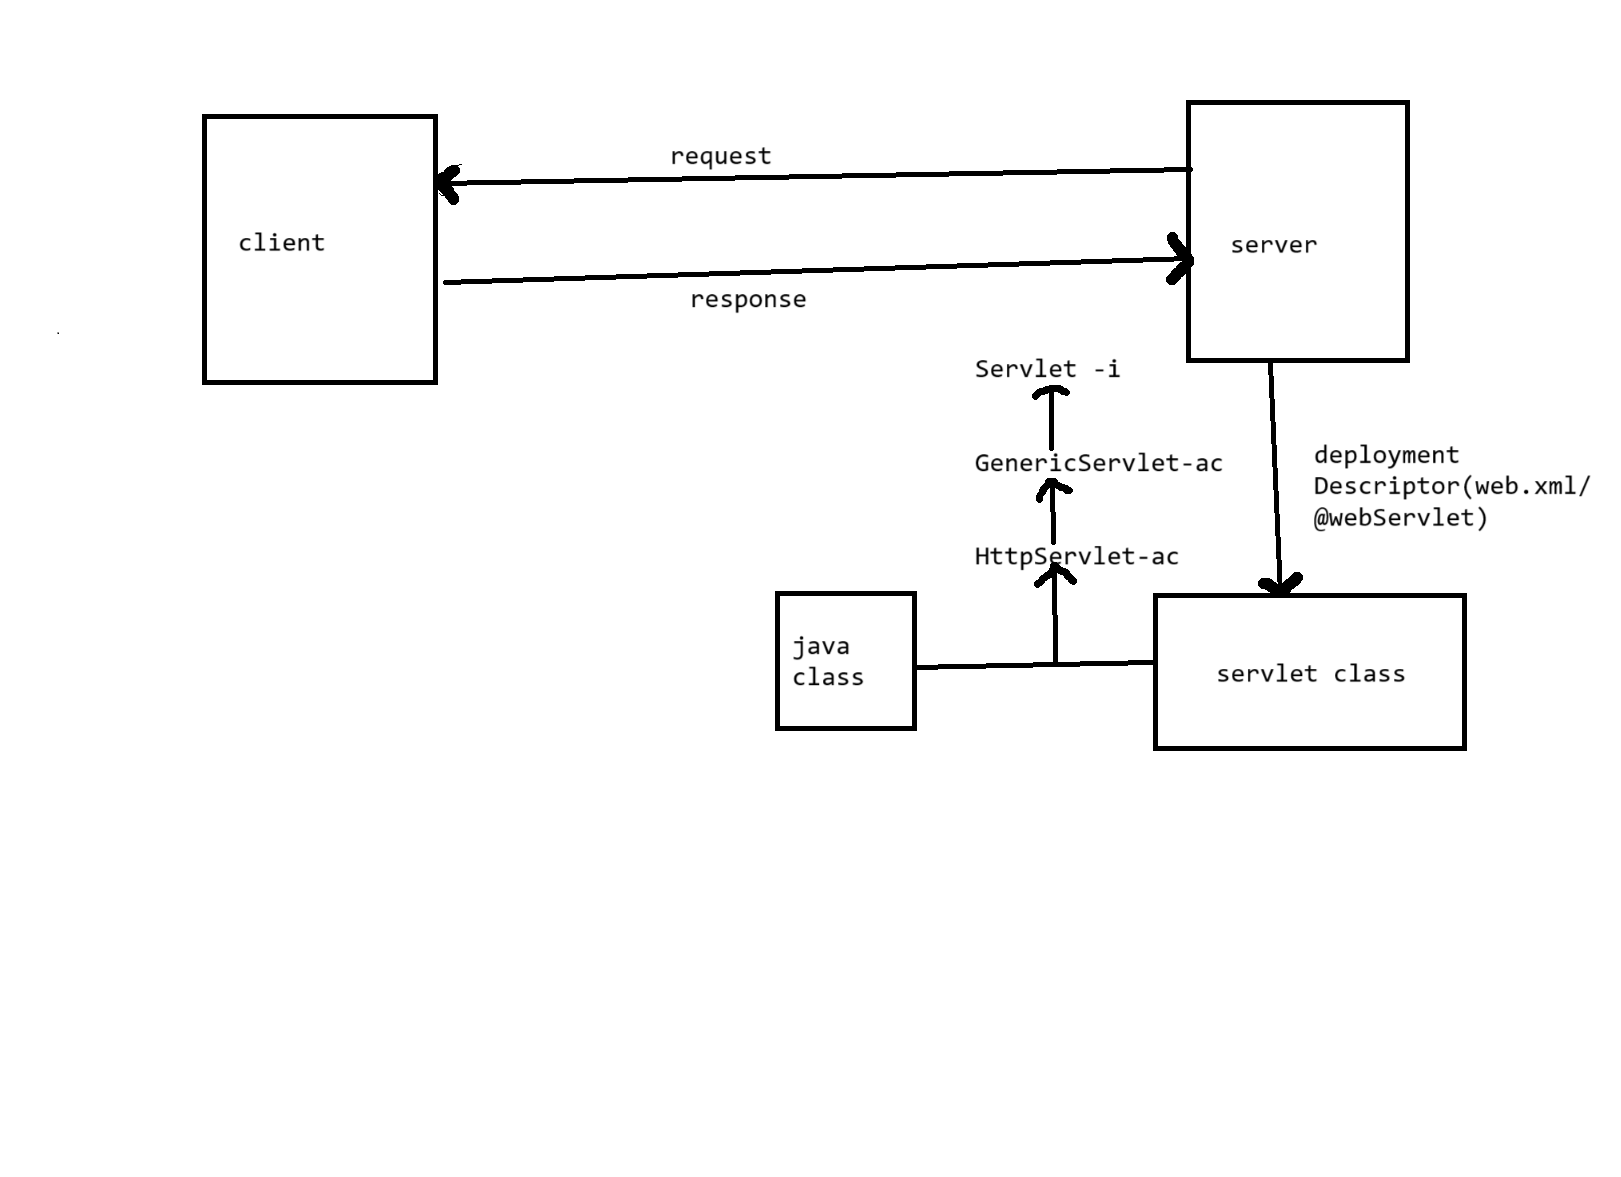
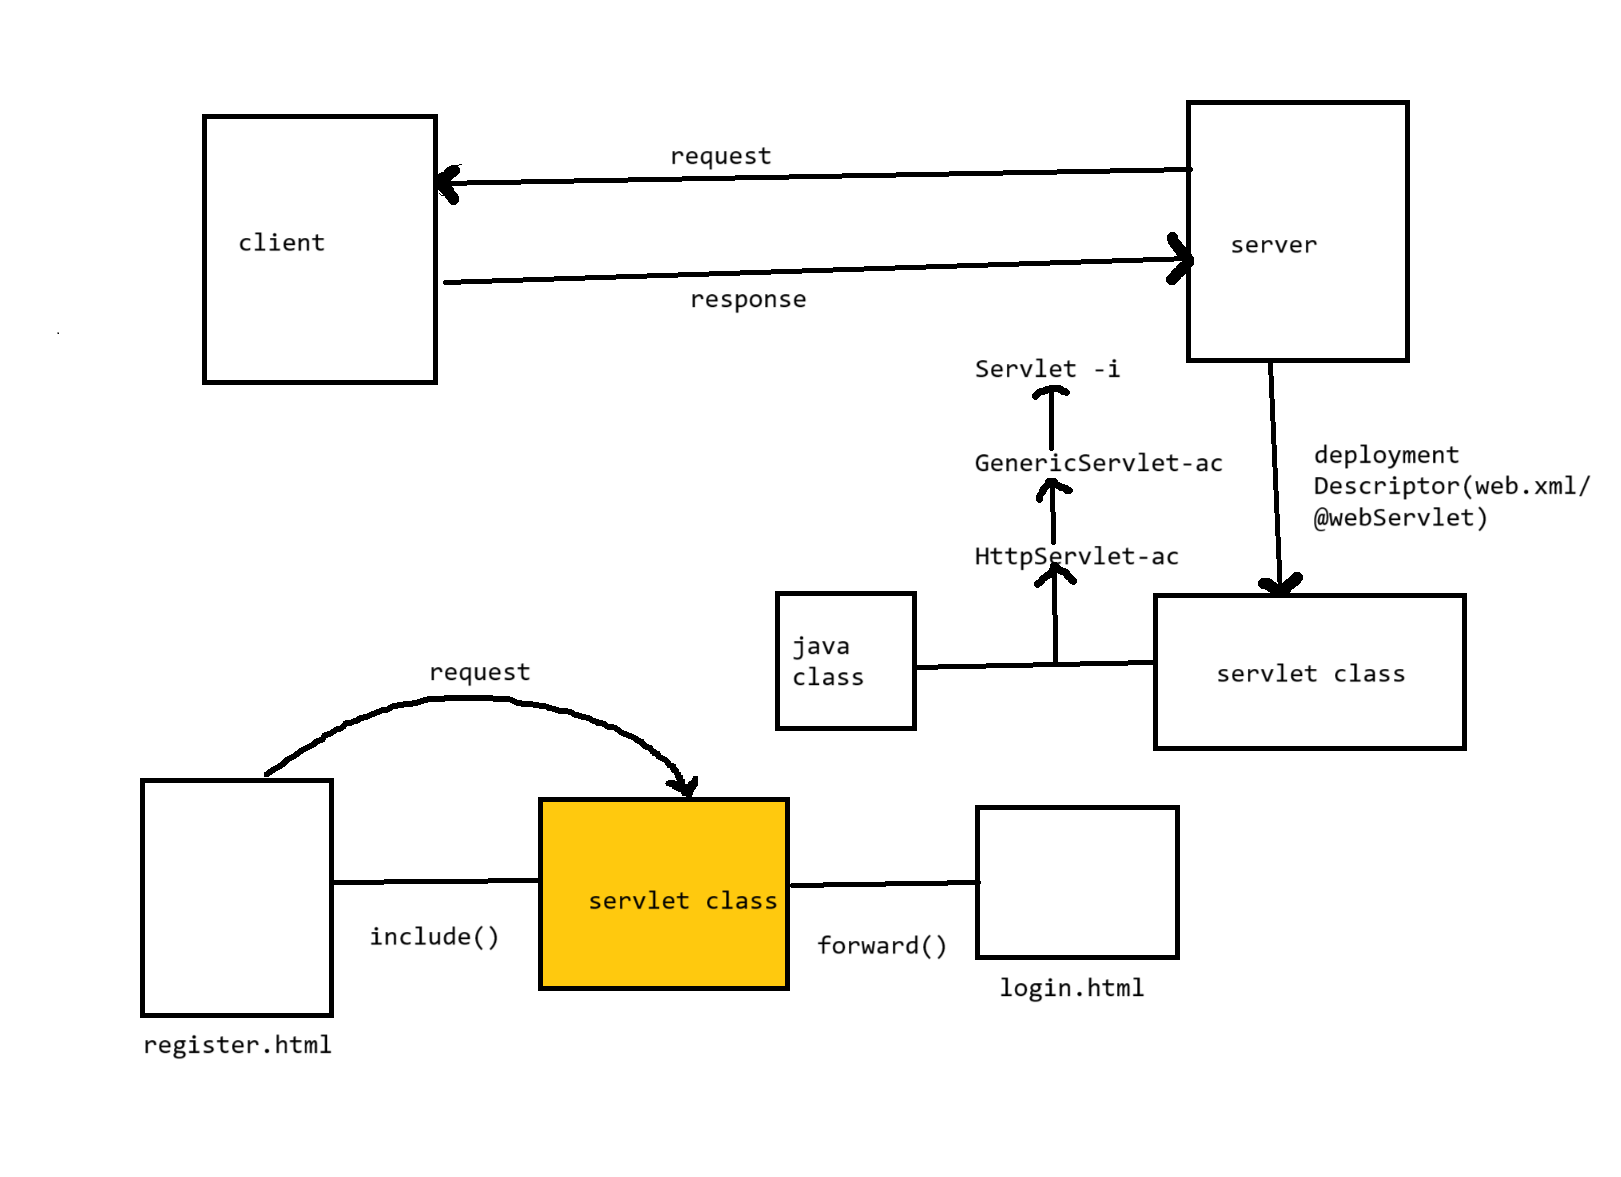
jdbc3

diff --git a/backend/servlet_project/src/main/webapp/index.html b/backend/servlet_project/src/main/webapp/index.html
@@ -6,6 +6,6 @@
 </head>
 <body>
  <a href="register.html"><button>SIGNUP</button></a>
- <button>SIGNIN</button>
+<a href="login.jsp"> <button>SIGNIN</button></a>
 </body>
 </html>

diff --git a/backend/servlet_project/src/main/java/servlet_project/LoginProgram.java b/backend/servlet_project/src/main/java/servlet_project/LoginProgram.java
@@ -1,0 +1,21 @@
+package servlet_project;
+
+import java.io.IOException;
+
+import javax.servlet.ServletException;
+import javax.servlet.annotation.WebServlet;
+import javax.servlet.http.HttpServlet;
+import javax.servlet.http.HttpServletRequest;
+import javax.servlet.http.HttpServletResponse;
+@WebServlet("/login")
+public class LoginProgram extends HttpServlet {
+
+	@Override
+	protected void doPost(HttpServletRequest req, HttpServletResponse resp) throws ServletException, IOException {
+		String name=req.getParameter("name");
+		long phone=Long.parseLong(req.getParameter("phone"));
+		
+		System.out.println(name+" "+phone);
+	}
+
+}
